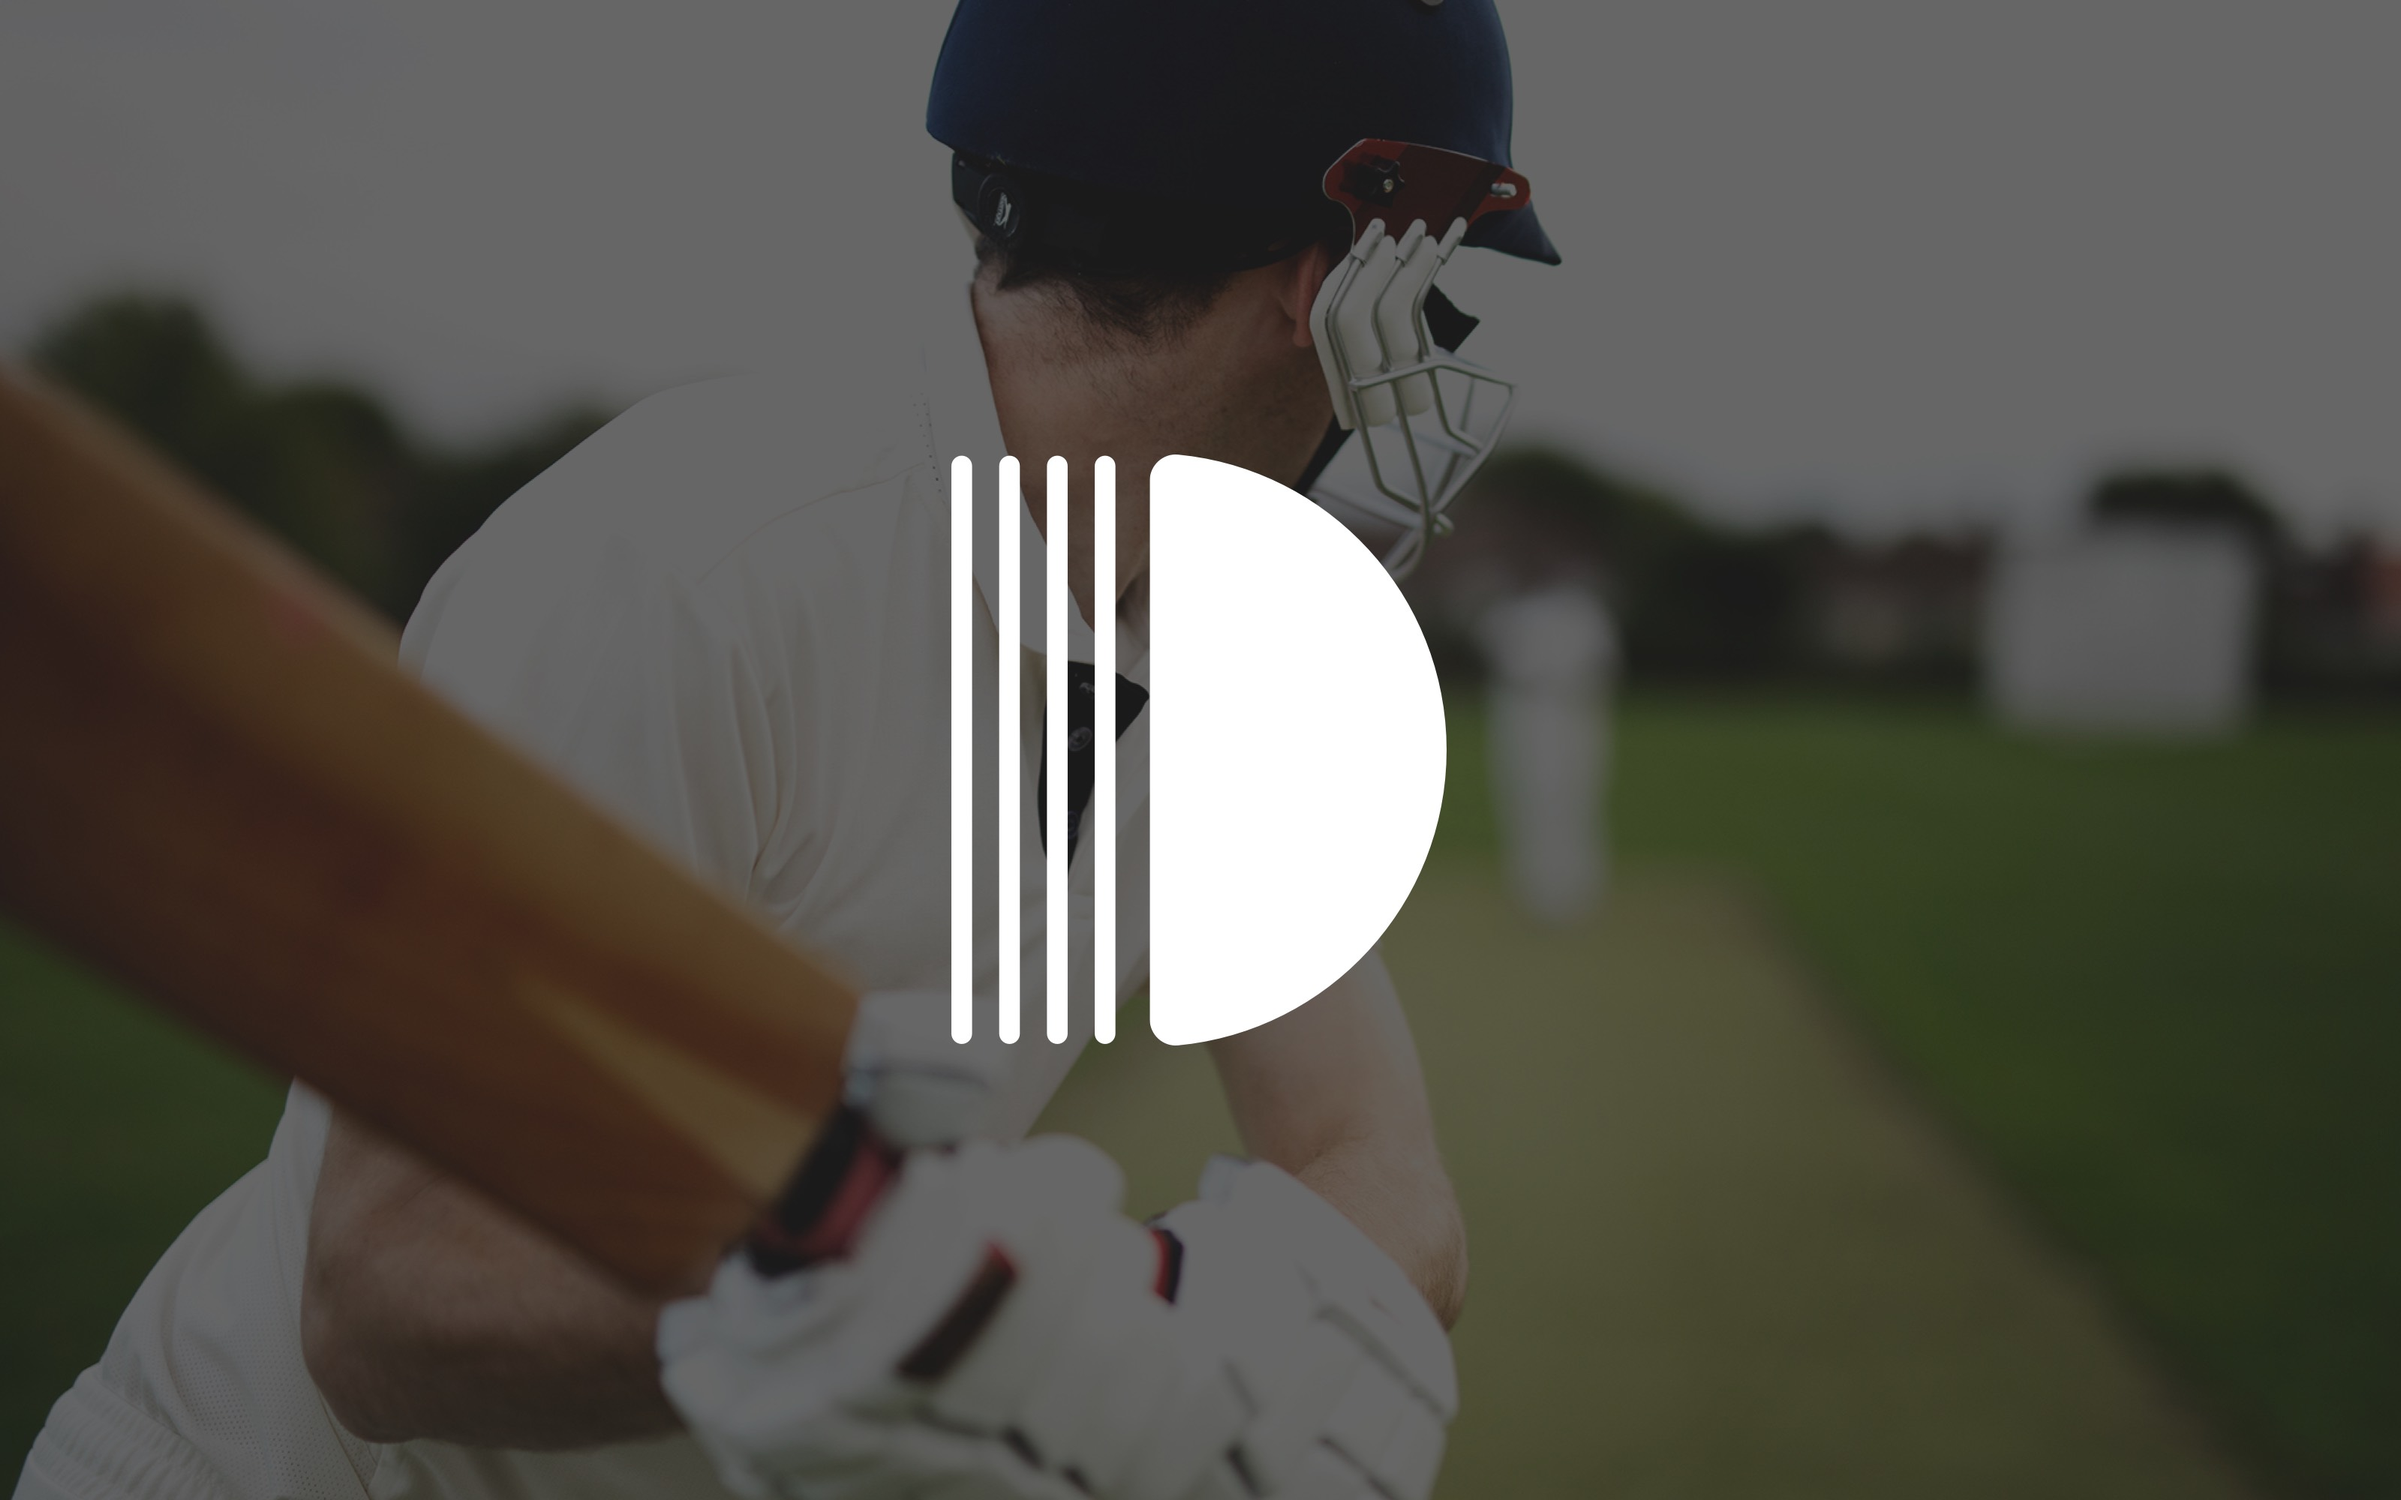
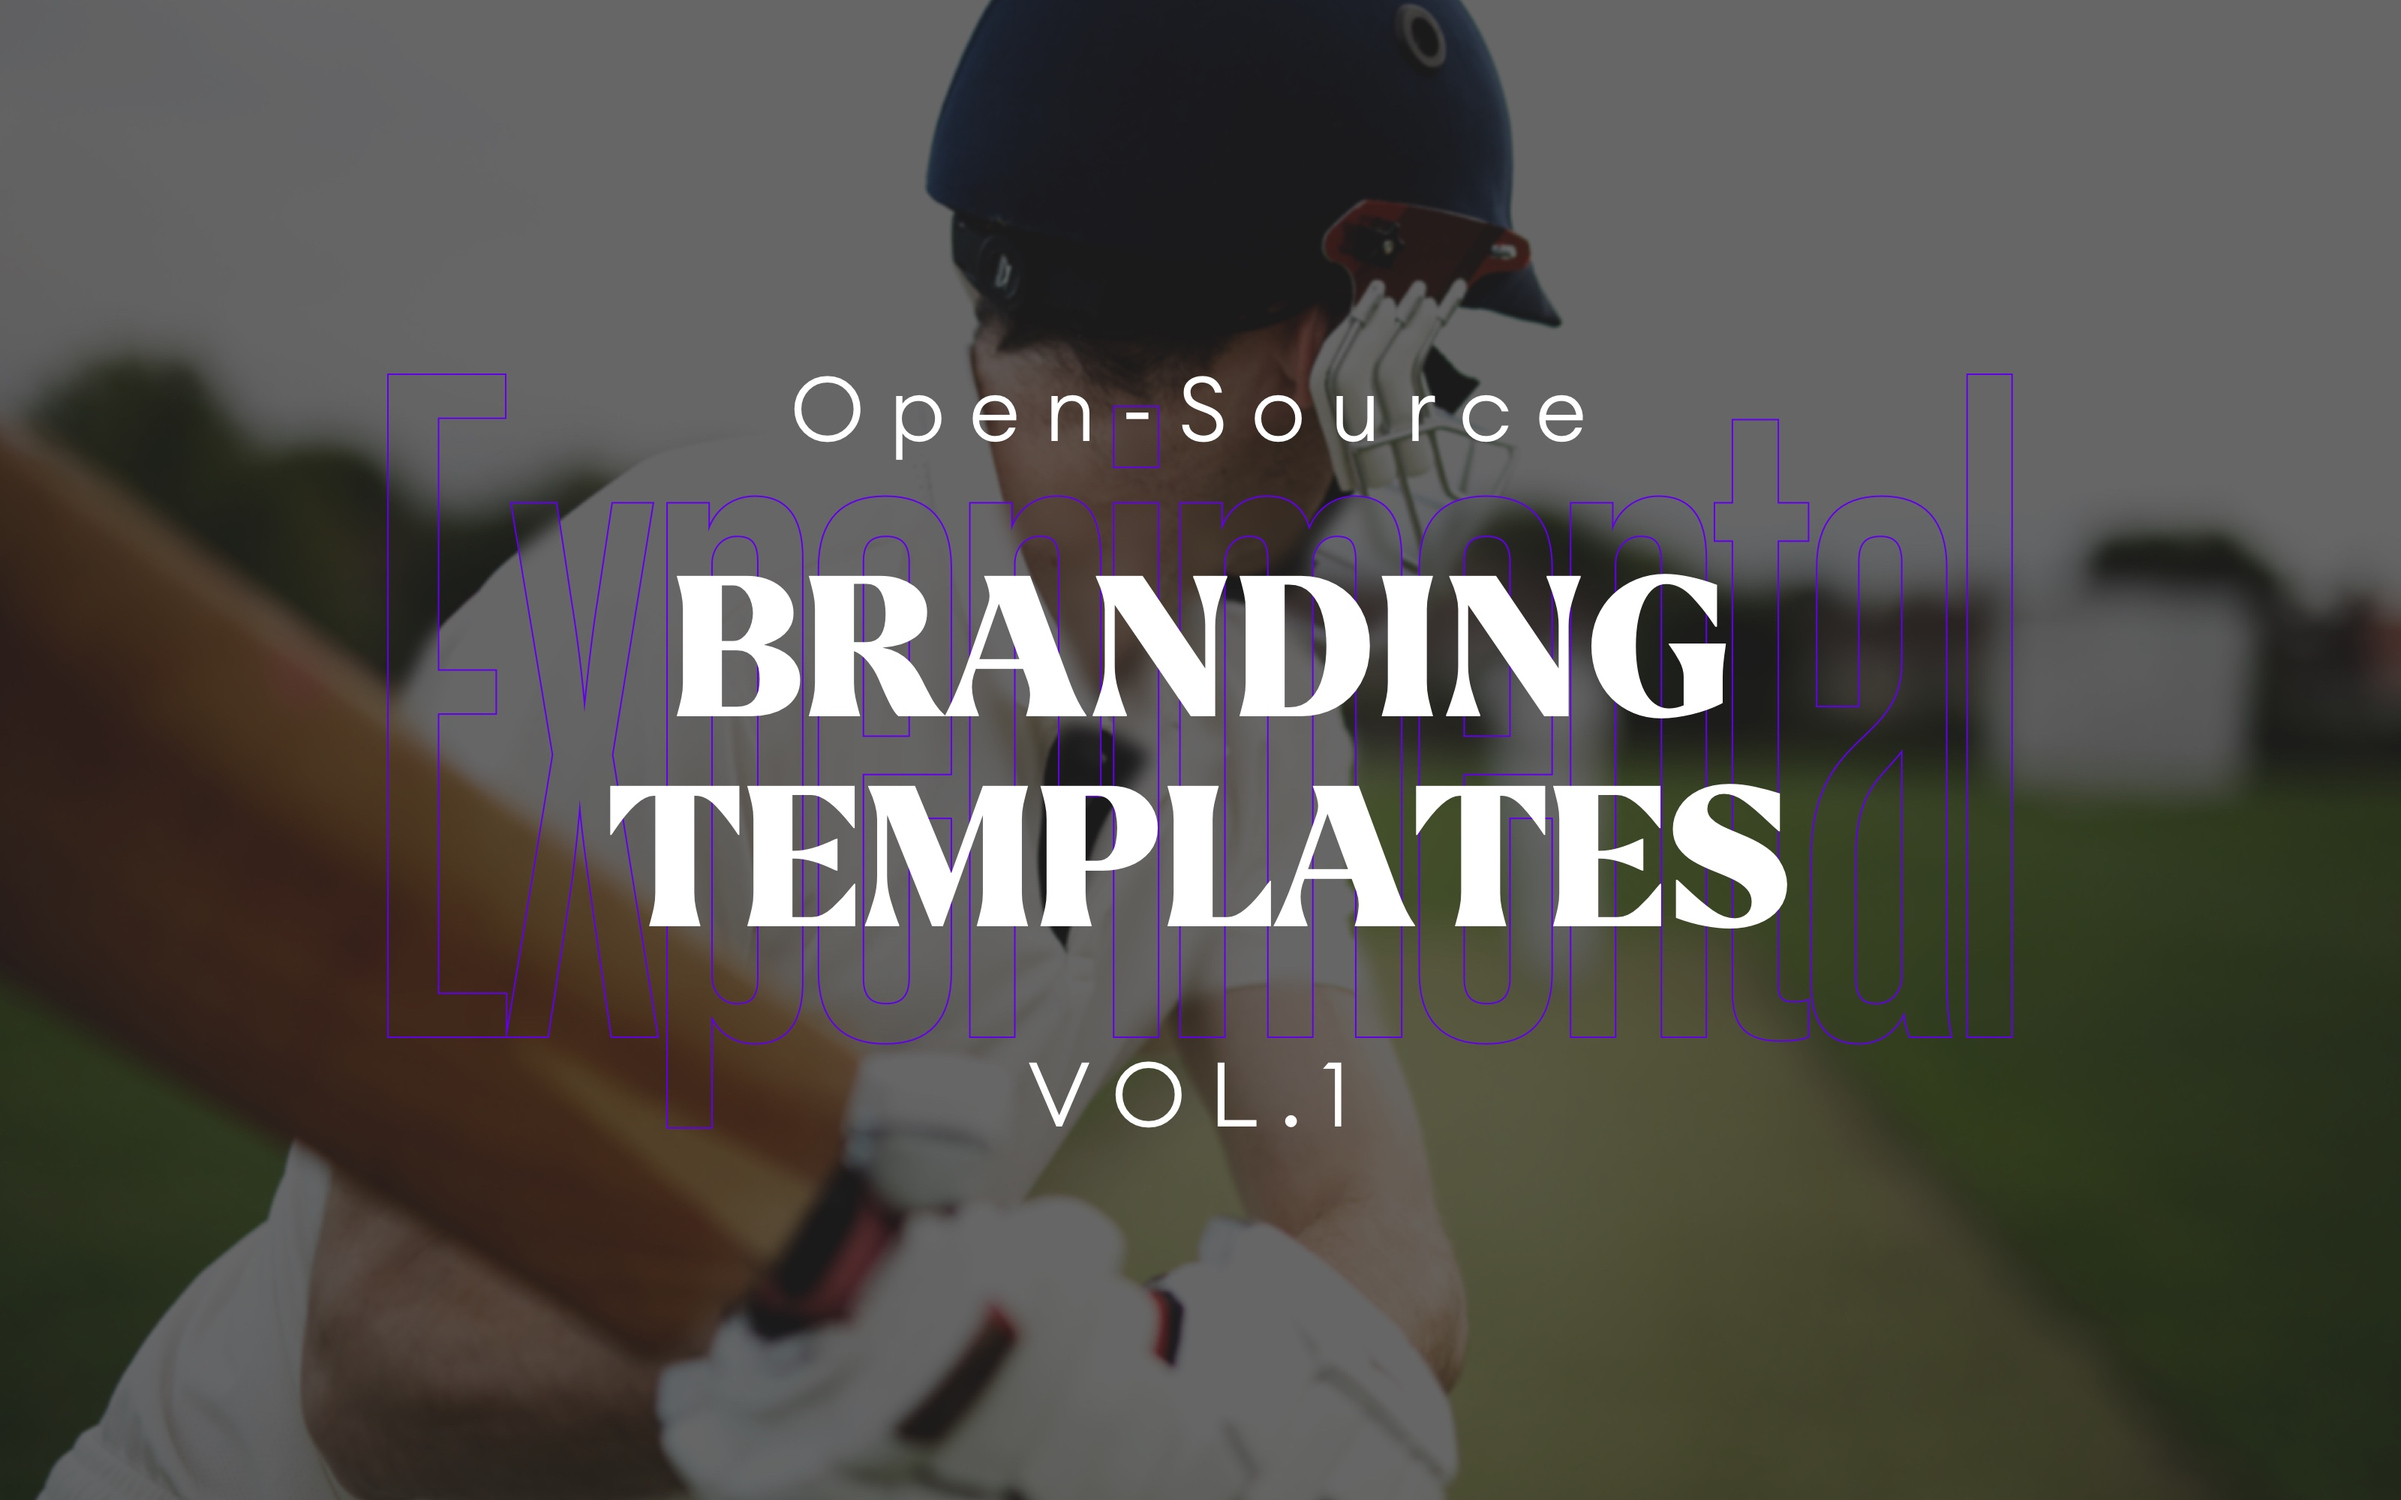
Lint fix and change cover visual

diff --git a/src/posts/2023-05-24-open-source-experimental-branding-templates.md b/src/posts/2023-05-24-open-source-experimental-branding-templates.md
@@ -20,24 +20,27 @@ imageAlt:
 
 ## The idea
 
-Among the fields I have experience in, Branding and UI/UX seemed the best choice for starting a new open-source project. 
-The idea came quickly: I decided to create Branding and UI/UX Templates for fellow designers. In the past months, I have dedicated one day of my work week, my "20% time", to the conception and realization of this project and I will be showcasing the results in this post.
+Among the fields I have experience in, Branding and UI/UX seemed the best choice
+for starting a new open-source project. The idea came quickly: I decided to
+create Branding and UI/UX Templates for fellow designers. In the past months, I
+have dedicated one day of my work week, my "20% time", to the conception and
+realization of this project and I will be showcasing the results in this post.
 
 ## The journey & experience
 
-After getting used to rules and requirements, at first it felt kind of
-strange to have all the freedom of the world - I can do anything I want as long as
-the results are interesting and motivating for others.
+After getting used to rules and requirements, at first it felt kind of strange
+to have all the freedom of the world - I can do anything I want as long as the
+results are interesting and motivating for others.
 
 At this point, I had a voice in my head - that most of the designers would hear
 I assume - "Let’s imagine a fictional client or project that I have to find a
-solution for". Instead of this, I thought: "What if I turn the whole process upside
-down and create something based on my gut feelings, combining surprise elements
-together and see what comes out? "
+solution for". Instead of this, I thought: "What if I turn the whole process
+upside down and create something based on my gut feelings, combining surprise
+elements together and see what comes out? "
 
-The first concept quickly turned boring and I started feeling a bit
-skeptical about my idea. But instead of giving up, that brought me closer to what I really wanted.
-Extraordinary. Surprising. Anything but boring.
+The first concept quickly turned boring and I started feeling a bit skeptical
+about my idea. But instead of giving up, that brought me closer to what I really
+wanted. Extraordinary. Surprising. Anything but boring.
 
 ## Concept 2
 
@@ -47,25 +50,26 @@ Extraordinary. Surprising. Anything but boring.
 [Download Sketch file](https://drive.google.com/drive/folders/1Ns0HDHztA8Ki6v8kp8L9NoxP69fI7D-c)
 
 I was searching among Google fonts when I found the most ridiculous but
-well-designed font I've ever seen, called "Nabla". I knew I had to
-start something with it.
-I don’t think I would ever suggest using a similar font to a client in a real-world
-situation, so this project was the perfect opportunity to experiment with it.
+well-designed font I've ever seen, called "Nabla". I knew I had to start
+something with it. I don’t think I would ever suggest using a similar font to a
+client in a real-world situation, so this project was the perfect opportunity to
+experiment with it.
 
-Here things became interesting: I started to combine the font with
-captivating cloud illustrations, focusing on using soft and warm color tones while maintaining the
-balance with the Circular Std font, which has a strong
-geometric typeface.
+Here things became interesting: I started to combine the font with captivating
+cloud illustrations, focusing on using soft and warm color tones while
+maintaining the balance with the Circular Std font, which has a strong geometric
+typeface.
 
-Based on the overall impression I was getting from the design, I decided to use some professional Chinese
-street photography. It was hard to find exactly what I was looking for, but after hours of searching through seas of stock photos, I finally came across the perfect pictures for this project.
-These naturally led me into
-trying some traditional Chinese typography (which I never did before). It was very
-satisfying and lots of fun. 
+Based on the overall impression I was getting from the design, I decided to use
+some professional Chinese street photography. It was hard to find exactly what I
+was looking for, but after hours of searching through seas of stock photos, I
+finally came across the perfect pictures for this project. These naturally led
+me into trying some traditional Chinese typography (which I never did before).
+It was very satisfying and lots of fun.
 
-I'm quite happy with the overall result and I believe it would look great
-for a fashion brand with a young target group within the Chinese market, or any
-other market with a strong connection to China.
+I'm quite happy with the overall result and I believe it would look great for a
+fashion brand with a young target group within the Chinese market, or any other
+market with a strong connection to China.
 
 ## Concept 3
 
@@ -75,21 +79,18 @@ other market with a strong connection to China.
 [Download Sketch file](https://drive.google.com/drive/folders/1Ns0HDHztA8Ki6v8kp8L9NoxP69fI7D-c)
 
 Berlin is a costant inspiration for creative people. Even a poster on the street
-can turn into something great: this is how Concept 2 was born. 
-I
-decided to play around with brutal geometric shapes and patterns, with strong
-but not too saturated colors.
+can turn into something great: this is how Concept 2 was born. I decided to play
+around with brutal geometric shapes and patterns, with strong but not too
+saturated colors.
 
-The Larken font immediately seemed a good fit here. I remembered this font
-from the past work: it is a very special bohemian font, between modern and classic,
-elegant and crazy. 
-The brutal geometric shapes required
-some smaller details for balance so I found a package with some interesting bugs
-illustrations which I modified to make them symmetrical and complement
-the concept better. 
+The Larken font immediately seemed a good fit here. I remembered this font from
+the past work: it is a very special bohemian font, between modern and classic,
+elegant and crazy. The brutal geometric shapes required some smaller details for
+balance so I found a package with some interesting bugs illustrations which I
+modified to make them symmetrical and complement the concept better.
 
-This idea has a quite versatile usage and of course the illustration
-package can be changed to match specific contexts.
+This idea has a quite versatile usage and of course the illustration package can
+be changed to match specific contexts.
 
 ## Concept 4
 
@@ -99,19 +100,17 @@ package can be changed to match specific contexts.
 [Download Sketch file](https://drive.google.com/drive/folders/1Ns0HDHztA8Ki6v8kp8L9NoxP69fI7D-c)
 
 Extremely condensed fonts were always something I wanted to try on the web but
-never had the chance to. Concept 4 seemed just the perfect time to experiment with them.
-After finding the ‘Rama Gothic C’ font which I considered the best designed
-in this category, I started to test different concepts.
-My idea quickly turned into a slideshow-style website combining colorful surfaces
-with typography playfulness, and wonderful monochrome photography with
-center-aligned overlay color circles, highlighting important parts of the
-image. 
+never had the chance to. Concept 4 seemed just the perfect time to experiment
+with them. After finding the ‘Rama Gothic C’ font which I considered the best
+designed in this category, I started to test different concepts. My idea quickly
+turned into a slideshow-style website combining colorful surfaces with
+typography playfulness, and wonderful monochrome photography with center-aligned
+overlay color circles, highlighting important parts of the image.
 
 ## Conclusion
 
 It was very valuable for me to experience the freedom of creating Branding
 templates without any rules or requirements and it has surely motivated me to
-suggest braver and more outstanding elements in real-life projects as well. 
-I
-hope these templates will be just as useful and fun to work with - or
-implement further - for the designer community, as it was for me to create them. 
+suggest braver and more outstanding elements in real-life projects as well. I
+hope these templates will be just as useful and fun to work with - or implement
+further - for the designer community, as it was for me to create them.
